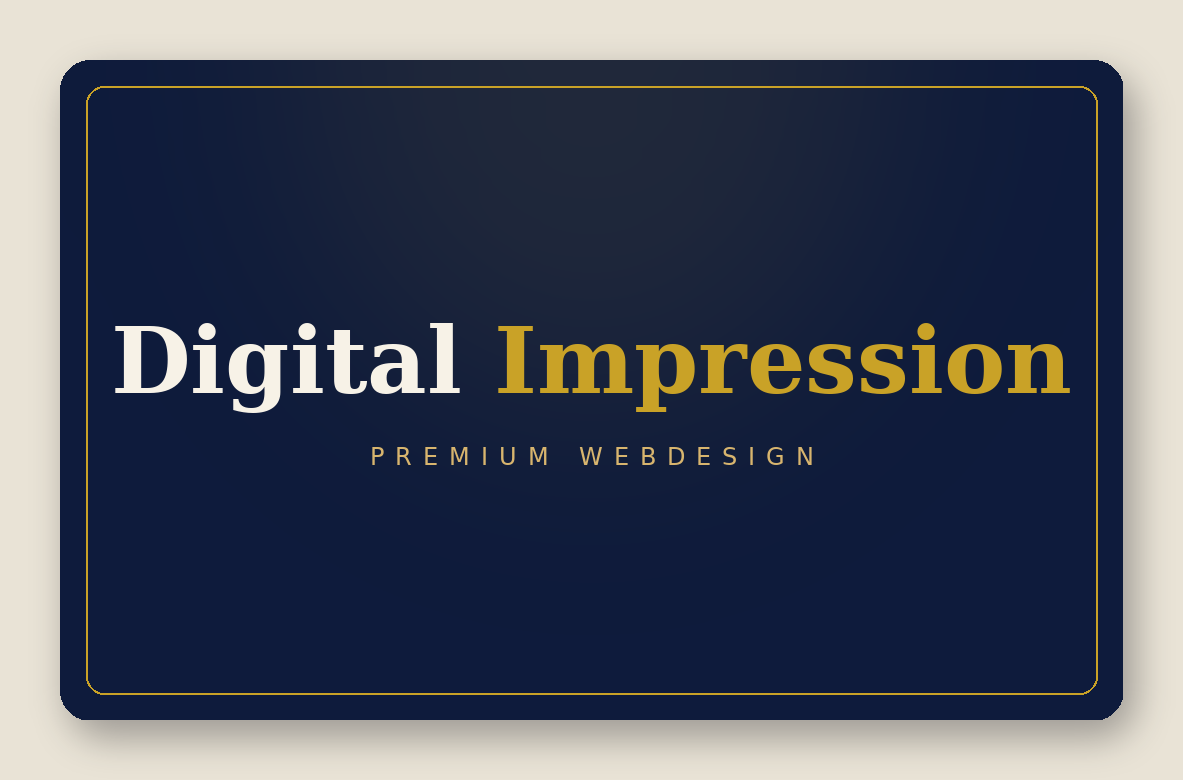
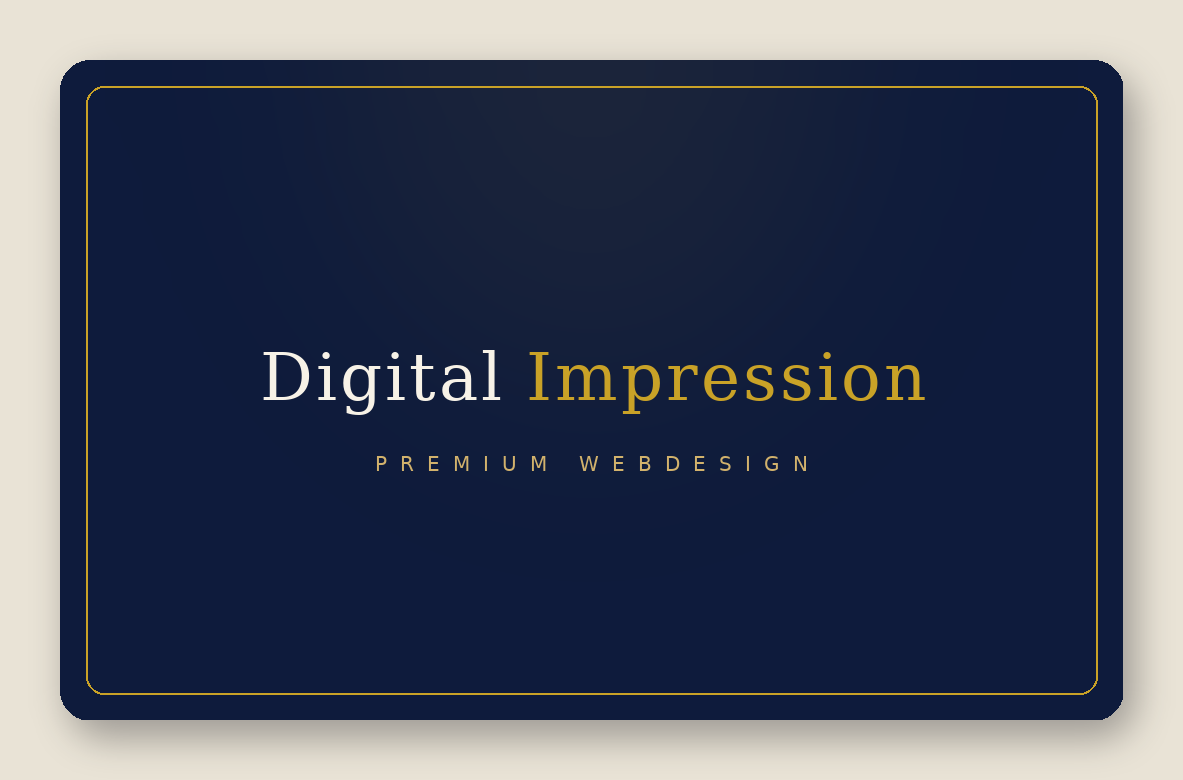
Business card v3: quieter premium front; back with 2 sections (USPs + contact mail/phone only)
Front: lighter serif, smaller, tracked wordmark for an understated premium feel.
Back: clear section split — value hook + USPs on top, a CONTACT section with
only phone and email (address/website removed).

https://claude.ai/code/session_01YXe8XTm3tZjtntKEbp2tdW

Changed region(s): [[0.0913, 0.4, 0.9129, 0.6154], [0.3043, 0.5538, 0.4565, 0.6154]]

diff --git a/business-card.html b/business-card.html
@@ -42,8 +42,8 @@
         <svg viewBox="0 0 91 61" role="img" aria-label="Voorzijde">
           <rect width="91" height="61" fill="#0E1B3C"/>
           <rect x="5" y="5" width="81" height="51" rx="2.4" fill="none" stroke="#C9A227" stroke-width="0.3"/>
-          <text x="45.5" y="30" text-anchor="middle" class="serif" font-size="9" font-weight="600"><tspan fill="#F7F2E7">Digital </tspan><tspan fill="#C9A227">Impression</tspan></text>
-          <text x="46" y="37" text-anchor="middle" class="sans" font-size="2.6" font-weight="500" letter-spacing="0.95" fill="#C9A227">PREMIUM WEBDESIGN</text>
+          <text x="45.7" y="30.2" text-anchor="middle" class="serif" font-size="7.4" font-weight="500" letter-spacing="0.35"><tspan fill="#F7F2E7">Digital </tspan><tspan fill="#C9A227">Impression</tspan></text>
+          <text x="46" y="36.6" text-anchor="middle" class="sans" font-size="2.4" font-weight="500" letter-spacing="1.15" fill="#C9A227">PREMIUM WEBDESIGN</text>
         </svg>
       </div>
       <p class="cap">Voorzijde</p>
@@ -55,21 +55,19 @@
         <svg viewBox="0 0 91 61" role="img" aria-label="Achterzijde">
           <rect width="91" height="61" fill="#F7F2E7"/>
           <rect x="5" y="5" width="81" height="51" rx="2.4" fill="none" stroke="#C9A227" stroke-width="0.3"/>
-          <text x="45.5" y="14.5" text-anchor="middle" class="serif" font-size="5.4" font-weight="600"><tspan fill="#0E1B3C">Een website die </tspan><tspan fill="#C9A227">klanten</tspan><tspan fill="#0E1B3C"> oplevert.</tspan></text>
+          <text x="45.5" y="14" text-anchor="middle" class="serif" font-size="5.3" font-weight="600"><tspan fill="#0E1B3C">Een website die </tspan><tspan fill="#C9A227">klanten</tspan><tspan fill="#0E1B3C"> oplevert.</tspan></text>
           <g class="sans" font-size="2.85" font-weight="500" fill="#0E1B3C">
-            <path d="M18 22.6 l0.9 1.1 l1.9 -2.3" fill="none" stroke="#C9A227" stroke-width="0.55" stroke-linecap="round" stroke-linejoin="round"/>
-            <text x="22" y="24.3">Professioneel design dat vertrouwen wekt</text>
-            <path d="M18 28.1 l0.9 1.1 l1.9 -2.3" fill="none" stroke="#C9A227" stroke-width="0.55" stroke-linecap="round" stroke-linejoin="round"/>
-            <text x="22" y="29.8">Mobielvriendelijk &amp; razendsnel</text>
-            <path d="M18 33.6 l0.9 1.1 l1.9 -2.3" fill="none" stroke="#C9A227" stroke-width="0.55" stroke-linecap="round" stroke-linejoin="round"/>
-            <text x="22" y="35.3">Beter vindbaar in Google</text>
+            <path d="M18 17.7 l0.8 1.0 l1.7 -2.1" fill="none" stroke="#C9A227" stroke-width="0.55" stroke-linecap="round" stroke-linejoin="round"/>
+            <text x="22" y="19.3">Professioneel design dat vertrouwen wekt</text>
+            <path d="M18 22.7 l0.8 1.0 l1.7 -2.1" fill="none" stroke="#C9A227" stroke-width="0.55" stroke-linecap="round" stroke-linejoin="round"/>
+            <text x="22" y="24.3">Mobielvriendelijk &amp; razendsnel</text>
+            <path d="M18 27.7 l0.8 1.0 l1.7 -2.1" fill="none" stroke="#C9A227" stroke-width="0.55" stroke-linecap="round" stroke-linejoin="round"/>
+            <text x="22" y="29.3">Beter vindbaar in Google</text>
           </g>
-          <line x1="33" y1="40" x2="58" y2="40" stroke="#C9A227" stroke-width="0.2"/>
-          <g text-anchor="middle" class="sans">
-            <text x="45.5" y="45.5" font-size="2.6" fill="#0E1B3C">Brabançonnestraat 32, 3000 Leuven</text>
-            <text x="45.5" y="49.6" font-size="2.35" fill="#0E1B3C">+32 496 25 14 45   ·   info@digital-impression.be</text>
-            <text x="45.5" y="53.8" font-size="2.7" font-weight="600" fill="#C9A227">www.digital-impression.be</text>
-          </g>
+          <line x1="16" y1="34" x2="75" y2="34" stroke="#C9A227" stroke-width="0.18"/>
+          <text x="45.5" y="39.2" text-anchor="middle" class="sans" font-size="1.9" font-weight="600" letter-spacing="1.1" fill="#C9A227">CONTACT</text>
+          <text x="45.5" y="45" text-anchor="middle" class="sans" font-size="3" font-weight="500" fill="#0E1B3C">+32 496 25 14 45</text>
+          <text x="45.5" y="50.6" text-anchor="middle" class="sans" font-size="3" font-weight="500" fill="#0E1B3C">info@digital-impression.be</text>
         </svg>
       </div>
       <p class="cap">Achterzijde</p>
